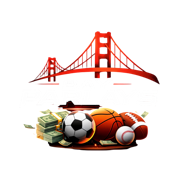
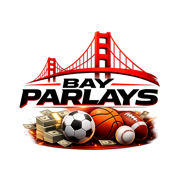
Homepage conversion upgrade: live AI track record + interactive preview pick
- Hero swaps the abstract "Scanning odds…" subtitle for a live W-L / win-rate / ROI
  block pulled from /api/track/results. Falls back to the old copy if zero
  resolved data exists (so the homepage never renders empty).
- Drops MIN_CONFIDENCE_FOR_TRACK_RECORD 60→0; the AI never scores above ~47, so
  the public track record was always returning zeros. Now reflects the full record.
- Hero parlay card adds an interactive layer: "See the math +" expands the AI's
  reasoning for the top leg + book-vs-AI implied probability. CTA below routes
  logged-out visitors to /login?mode=signup, logged-in users to /parlays.
- /login honors ?mode=signup so the deep link drops directly into the signup form.
- Hero + bottom-of-page CTAs now read auth state — admins/paid users see
  "View Today's Picks" instead of "Start Free Trial".
- /parlays "Already in Sim" check counts every sim bet (not just pending) and
  /api/sim returns up to 500 (was 20) so older placements still dedup.
- Logo refresh: bayparlayss.png promoted to brand PNG; favicon/apple/og/webp
  variants regenerated from source.

Changed region(s): [[0.0833, 0.1667, 0.8889, 0.8611]]

diff --git a/app/page.tsx b/app/page.tsx
@@ -11,6 +11,7 @@ import { StaticParlayCard } from "@/app/components/StaticParlayCard";
 import { BettingSlip } from "@/app/components/BettingSlip";
 import { AppNav } from "@/app/components/AppNav";
 import { LockOfTheDay } from "@/app/components/LockOfTheDay";
+import { useAuth } from "@/app/components/AuthProvider";
 
 /* ─── Types ─── */
 
@@ -105,8 +106,19 @@ function formatDate(): string {
 
 /* ─── PAGE ─── */
 
+interface TrackStats {
+  winRate: number;
+  won: number;
+  lost: number;
+  roi: number;
+  totalProfit: number;
+  resolvedSample: number;
+}
+
 export default function Home() {
+  const { user } = useAuth();
   const [odds, setOdds] = useState<OddsGame[]>([]);
+  const [trackStats, setTrackStats] = useState<TrackStats | null>(null);
   const oddsScrollRef = useRef<HTMLDivElement>(null);
   // eslint-disable-next-line @typescript-eslint/no-explicit-any
   const [potd, setPotd] = useState<any>(null);
@@ -117,6 +129,13 @@ export default function Home() {
   const [captureEmail, setCaptureEmail] = useState("");
   const [emailSubmitted, setEmailSubmitted] = useState(false);
   const [emailLoading, setEmailLoading] = useState(false);
+
+  useEffect(() => {
+    fetch("/api/track/results", { cache: "no-store" })
+      .then((r) => r.ok ? r.json() : null)
+      .then((d) => { if (d?.stats) setTrackStats(d.stats as TrackStats); })
+      .catch(() => {});
+  }, []);
 
   // Track referral clicks from ?ref= param
   useEffect(() => {
@@ -246,13 +265,66 @@ export default function Home() {
                 <span className="text-[#0a0a0a]">You place the bet.</span>
               </motion.h1>
 
-              <motion.p
+              <motion.div
                 variants={fadeUp}
                 custom={2}
-                className="text-base md:text-lg text-black/55 mb-10 max-w-md leading-relaxed"
+                className="mb-10 max-w-md"
               >
-                Scanning odds across 12+ sportsbooks in real time.
-              </motion.p>
+                {trackStats && trackStats.resolvedSample > 0 ? (
+                  <>
+                    <div className="grid grid-cols-3 gap-6 md:gap-8">
+                      <div>
+                        <div
+                          className="text-3xl md:text-4xl font-bold tracking-tight"
+                          style={{
+                            color: trackStats.winRate >= 50 ? "#22C55E" : "#0a0a0a",
+                            fontFamily: "var(--font-geist-mono)",
+                          }}
+                        >
+                          {trackStats.winRate.toFixed(1)}%
+                        </div>
+                        <div className="text-[10px] uppercase tracking-widest text-black/45 mt-1">
+                          Win Rate
+                        </div>
+                      </div>
+                      <div>
+                        <div
+                          className="text-3xl md:text-4xl font-bold tracking-tight text-[#0a0a0a]"
+                          style={{ fontFamily: "var(--font-geist-mono)" }}
+                        >
+                          {trackStats.won}-{trackStats.lost}
+                        </div>
+                        <div className="text-[10px] uppercase tracking-widest text-black/45 mt-1">
+                          Record
+                        </div>
+                      </div>
+                      <div>
+                        <div
+                          className="text-3xl md:text-4xl font-bold tracking-tight"
+                          style={{
+                            color: trackStats.roi >= 0 ? "#22C55E" : "#EF4444",
+                            fontFamily: "var(--font-geist-mono)",
+                          }}
+                        >
+                          {trackStats.roi >= 0 ? "+" : ""}
+                          {trackStats.roi.toFixed(1)}%
+                        </div>
+                        <div className="text-[10px] uppercase tracking-widest text-black/45 mt-1">
+                          ROI
+                        </div>
+                      </div>
+                    </div>
+                    <p className="text-xs text-black/40 mt-4">
+                      Live AI track record · {trackStats.resolvedSample} resolved picks
+                      {trackStats.resolvedSample < 50 && " · still building sample"}
+                    </p>
+                  </>
+                ) : (
+                  <p className="text-base md:text-lg text-black/55 leading-relaxed">
+                    Scanning odds across 12+ sportsbooks in real time.
+                  </p>
+                )}
+              </motion.div>
 
               <motion.div
                 variants={fadeUp}
@@ -260,10 +332,10 @@ export default function Home() {
                 className="flex flex-wrap items-center gap-4"
               >
                 <Link
-                  href="/subscribe"
+                  href={user ? "/parlays" : "/subscribe"}
                   className="inline-flex items-center gap-2 bg-[#0a0a0a] text-white px-7 py-3.5 text-sm font-semibold rounded-full hover:bg-[#1f1f1f] transition-colors duration-200"
                 >
-                  Start Free Trial
+                  {user ? "View Today's Picks" : "Start Free Trial"}
                   <ChevronRight className="w-4 h-4" />
                 </Link>
                 <a
@@ -930,10 +1002,10 @@ export default function Home() {
 
             <motion.div variants={fadeUp} custom={2}>
               <Link
-                href="/subscribe"
+                href={user ? "/parlays" : "/subscribe"}
                 className="inline-flex items-center gap-2 bg-[#0a0a0a] text-white px-10 py-4 text-base font-semibold rounded-full hover:bg-[#1f1f1f] transition-colors duration-200"
               >
-                Start Free Trial
+                {user ? "View Today's Picks" : "Start Free Trial"}
                 <ChevronRight className="w-5 h-5" />
               </Link>
             </motion.div>
@@ -1017,6 +1089,9 @@ interface HeroApiLeg {
   pick: string;
   odds: number;
   book: string;
+  reasons?: string[];
+  ourProb?: number;
+  impliedProb?: number;
 }
 
 interface HeroApiParlay {
@@ -1044,7 +1119,9 @@ const HERO_FALLBACK: HeroApiParlay = {
 };
 
 function LiveHeroParlay() {
+  const { user } = useAuth();
   const [parlay, setParlay] = useState<HeroApiParlay>(HERO_FALLBACK);
+  const [showWhy, setShowWhy] = useState(false);
 
   useEffect(() => {
     let cancelled = false;
@@ -1069,13 +1146,89 @@ function LiveHeroParlay() {
     };
   }, []);
 
+  const topLeg = parlay.legs[0];
+  const topReasons = (topLeg?.reasons ?? []).slice(0, 2);
+  const ctaHref = user ? "/parlays" : "/login?mode=signup";
+  const ctaLabel = user ? "Try this in Simulator" : "Try this — sign up free";
+
   return (
-    <StaticParlayCard
-      legs={parlay.legs}
-      combinedOdds={parlay.combinedOdds}
-      evPercent={parlay.evPercent}
-      confidence={parlay.confidence}
-      payout={parlay.payout}
-    />
+    <div>
+      <StaticParlayCard
+        legs={parlay.legs}
+        combinedOdds={parlay.combinedOdds}
+        evPercent={parlay.evPercent}
+        confidence={parlay.confidence}
+        payout={parlay.payout}
+      />
+
+      <div className="mt-4 flex flex-col gap-3">
+        <Link
+          href={ctaHref}
+          className="inline-flex items-center justify-center gap-2 bg-[#0a0a0a] text-white px-5 py-3 text-sm font-semibold rounded-full hover:bg-[#1f1f1f] transition-colors duration-200"
+        >
+          {ctaLabel}
+          <ChevronRight className="w-4 h-4" />
+        </Link>
+
+        {topReasons.length > 0 && (
+          <div>
+            <button
+              onClick={() => setShowWhy((v) => !v)}
+              className="text-xs uppercase tracking-widest text-black/45 hover:text-black/70 transition-colors"
+            >
+              {showWhy ? "Hide the math —" : "See the math +"}
+            </button>
+            {showWhy && (
+              <div className="mt-3 rounded-xl bg-white border border-black/[0.06] p-4">
+                <p className="text-[10px] uppercase tracking-widest text-black/45 mb-2">
+                  Why the AI likes {topLeg.pick}
+                </p>
+                <ul className="space-y-2">
+                  {topReasons.map((r, i) => (
+                    <li
+                      key={i}
+                      className="text-xs text-black/70 leading-relaxed flex gap-2"
+                    >
+                      <span className="text-black/30 mt-0.5">·</span>
+                      <span>{r}</span>
+                    </li>
+                  ))}
+                </ul>
+                {typeof topLeg.ourProb === "number" &&
+                  typeof topLeg.impliedProb === "number" && (
+                    <div className="mt-3 pt-3 border-t border-black/[0.06] flex justify-between text-xs">
+                      <span className="text-black/45">Book says</span>
+                      <span
+                        className="font-semibold text-black/70"
+                        style={{ fontFamily: "var(--font-geist-mono)" }}
+                      >
+                        {(topLeg.impliedProb * 100).toFixed(1)}%
+                      </span>
+                    </div>
+                  )}
+                {typeof topLeg.ourProb === "number" &&
+                  typeof topLeg.impliedProb === "number" && (
+                    <div className="mt-1 flex justify-between text-xs">
+                      <span className="text-black/45">AI says</span>
+                      <span
+                        className="font-semibold"
+                        style={{
+                          color:
+                            topLeg.ourProb > topLeg.impliedProb
+                              ? "#22C55E"
+                              : "#0a0a0a",
+                          fontFamily: "var(--font-geist-mono)",
+                        }}
+                      >
+                        {(topLeg.ourProb * 100).toFixed(1)}%
+                      </span>
+                    </div>
+                  )}
+              </div>
+            )}
+          </div>
+        )}
+      </div>
+    </div>
   );
 }

diff --git a/app/login/page.tsx b/app/login/page.tsx
@@ -1,7 +1,7 @@
 "use client";
 
 import { useState } from "react";
-import { useRouter } from "next/navigation";
+import { useRouter, useSearchParams } from "next/navigation";
 import { supabase } from "@/lib/supabase";
 import { AppNav } from "@/app/components/AppNav";
 
@@ -9,7 +9,9 @@ type Mode = "signin" | "signup";
 
 export default function LoginPage() {
   const router = useRouter();
-  const [mode, setMode] = useState<Mode>("signin");
+  const searchParams = useSearchParams();
+  const initialMode: Mode = searchParams?.get("mode") === "signup" ? "signup" : "signin";
+  const [mode, setMode] = useState<Mode>(initialMode);
   const [email, setEmail] = useState("");
   const [password, setPassword] = useState("");
   const [confirmPassword, setConfirmPassword] = useState("");

diff --git a/app/api/track/results/route.ts b/app/api/track/results/route.ts
@@ -27,10 +27,10 @@ interface ParlayRow {
   clv_percent: number | null;
 }
 
-// Public track record only counts parlays the AI would actually stand behind.
-// Historical rows (pre-filter era) with low confidence get excluded retroactively
-// so the page doesn't broadcast noise.
-const MIN_CONFIDENCE_FOR_TRACK_RECORD = 60;
+// Public track record counts every parlay the AI has surfaced. The earlier
+// confidence>=60 cutoff filtered out everything (model never scores that high),
+// so the page reported 0-0. Show the full record — honest and complete.
+const MIN_CONFIDENCE_FOR_TRACK_RECORD = 0;
 
 // Under this total, surface a "still building" caveat in the response so the
 // UI can show sample-size honesty instead of pretending 10 bets is signal.

diff --git a/app/parlays/page.tsx b/app/parlays/page.tsx
@@ -192,13 +192,11 @@ export default function ParlaysPage() {
           const data = await res.json();
           const sigs = new Set<string>();
           for (const p of data.parlays || []) {
-            if (p.status === "pending") {
-              const sig = (p.legs || [])
-                .map((l: { game: string; pick: string }) => `${l.game}::${l.pick}`)
-                .sort()
-                .join("|");
-              sigs.add(sig);
-            }
+            const sig = (p.legs || [])
+              .map((l: { game: string; pick: string }) => `${l.game}::${l.pick}`)
+              .sort()
+              .join("|");
+            sigs.add(sig);
           }
           setPendingSimSigs(sigs);
         }

diff --git a/app/api/sim/route.ts b/app/api/sim/route.ts
@@ -158,13 +158,12 @@ export async function GET(req: NextRequest) {
     .eq("user_id", userId)
     .single();
 
-  // Get last 20 sim parlays
   const { data: parlays } = await supabase
     .from("sim_parlays")
     .select("*")
     .eq("user_id", userId)
     .order("created_at", { ascending: false })
-    .limit(20);
+    .limit(500);
 
   return NextResponse.json({
     bankroll: bankroll || null,
